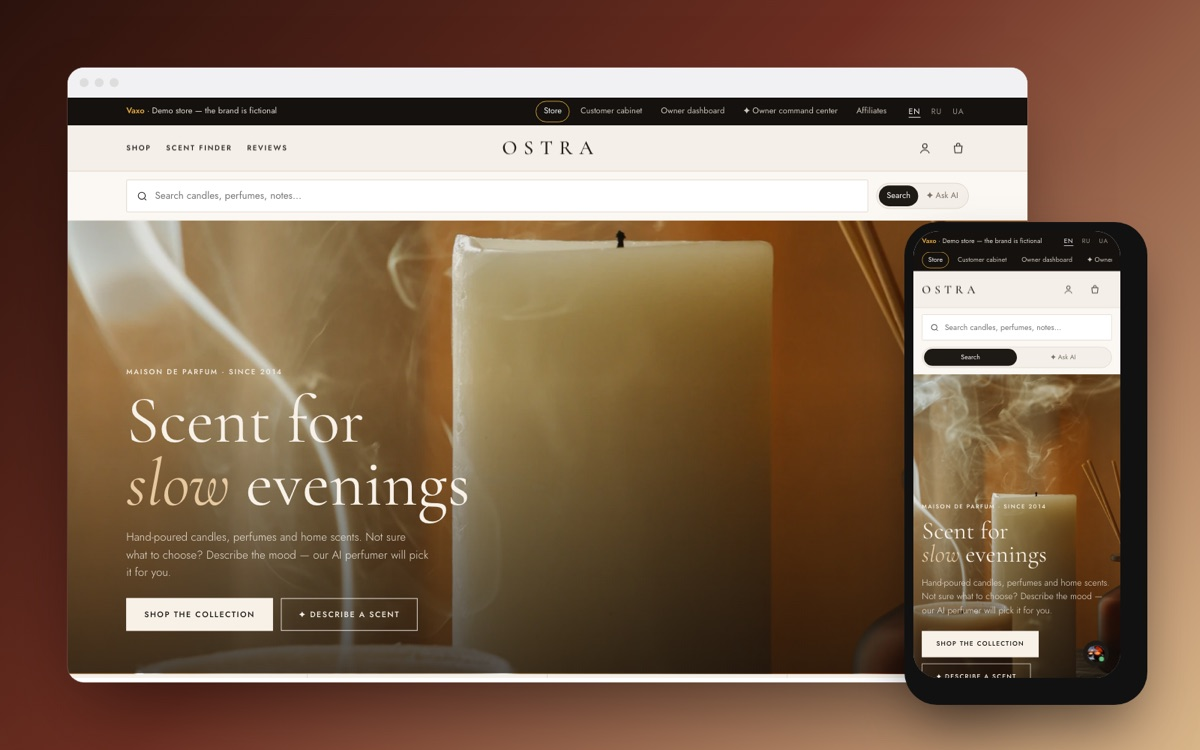
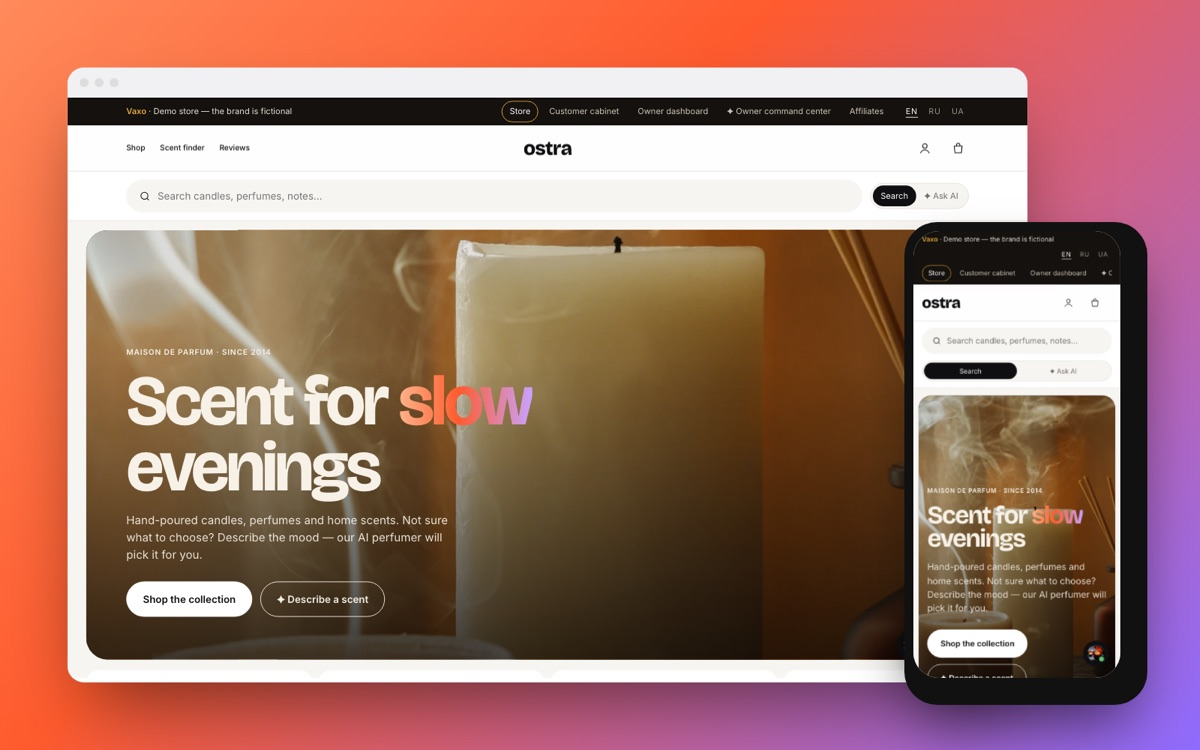
Demo CTAs open Vax chat with context; new TrichoTech/AiPro covers; modern Ostra restyle

diff --git a/public/examples/eco-shop/index.html b/public/examples/eco-shop/index.html
@@ -8,7 +8,7 @@
 <meta name="robots" content="noindex" />
 <link rel="preconnect" href="https://fonts.googleapis.com" />
 <link rel="preconnect" href="https://fonts.gstatic.com" crossorigin />
-<link href="https://fonts.googleapis.com/css2?family=Cormorant+Garamond:ital,wght@0,400;0,500;0,600;1,400&family=Jost:wght@300;400;500;600&display=swap" rel="stylesheet" />
+<link href="https://fonts.googleapis.com/css2?family=Bricolage+Grotesque:opsz,wght@12..96,500;12..96,600;12..96,700;12..96,800&family=Inter:wght@400;500;600;700&display=swap" rel="stylesheet" />
 <style>
 :root{--bg:#F4EFE8;--paper:#FBF8F3;--ink:#1D1915;--mut:#7A7067;--line:#DDD4C8;--acc:#6E2F22;--acc2:#B88A57;--ok:#4C6B4A;--serif:'Cormorant Garamond',Georgia,serif;--sans:'Jost',system-ui,sans-serif}
 *{box-sizing:border-box}html{scroll-behavior:smooth}
@@ -274,6 +274,50 @@ td{padding:10px 0;border-bottom:1px solid var(--line)}
   .edit .tx{padding:40px 16px}
 }
 @media (max-width:700px){.demo nav{flex-wrap:nowrap;overflow-x:auto;width:100%;order:3;scrollbar-width:none}.demo nav::-webkit-scrollbar{display:none}.demo nav button{white-space:nowrap}.demo .langs{margin-left:auto}.demo .wrap{gap:6px 10px;padding-top:6px;padding-bottom:6px}}
+
+/* 2026 refresh: modern niche-perfume look (Byredo / Boy Smells / Glossier mood) */
+:root{--bg:#F7F5F2;--paper:#FFFFFF;--ink:#0F0F10;--mut:#6F6B66;--line:#E7E2DB;--acc:#FF5B2E;--acc2:#8E6BFF;--ok:#1F8A5B;--serif:'Bricolage Grotesque',system-ui,sans-serif;--sans:'Inter',system-ui,sans-serif;--r:22px}
+body{font-size:15px}
+.cap{letter-spacing:.08em;font-weight:600;font-size:11.5px}
+.logo{font-family:var(--serif);font-weight:800;letter-spacing:-.03em;font-size:30px;padding-left:0;text-transform:lowercase}
+header.top{background:color-mix(in srgb,#fff 86%,transparent);border-bottom:1px solid var(--line)}
+.hnav a{font-weight:500;text-transform:none;letter-spacing:0}
+.searchbar{background:#fff}
+.sbox{border-radius:999px;padding-left:18px;background:var(--bg);border-color:transparent}
+.sbox:focus-within{background:#fff;border-color:var(--ink)}
+.sbox.ai{background:#fff}
+.sgo{border-radius:999px}
+.hero{margin:14px clamp(10px,2vw,28px) 0;border-radius:32px;min-height:min(74vh,700px);background:#1d1410}
+.hero::after{background:linear-gradient(180deg,rgba(0,0,0,0) 30%,rgba(10,6,4,.72))}
+.hero h1{font-family:var(--serif);font-weight:700;letter-spacing:-.045em;line-height:.92;font-size:clamp(48px,7.4vw,112px)}
+.hero h1 i{font-style:normal;background:linear-gradient(90deg,#FFB38A,#FF5B2E 45%,#C8A2FF);-webkit-background-clip:text;background-clip:text;color:transparent}
+.hero p{font-weight:400}
+.btn{border-radius:999px;letter-spacing:0;text-transform:none;font-size:15px;font-weight:600;padding:14px 24px}
+.btn.fill{background:var(--ink)}
+.btn.light{background:#fff;border-color:#fff}
+.strip{border:0;gap:10px;padding:16px clamp(10px,2vw,28px);grid-template-columns:repeat(4,1fr)}
+.strip div{border:0;background:#fff;border-radius:18px;padding:16px}
+.sechead h2,.edit h2,.dh h3{font-family:var(--serif);font-weight:700;letter-spacing:-.035em}
+.fgroup h4{letter-spacing:.06em;font-weight:600}
+.fgroup input[type=checkbox]{border-radius:6px}
+.toolbar select{border-radius:999px;padding:9px 14px}
+.aiband{border-radius:var(--r);background:linear-gradient(110deg,#FFF1EA,#F3EEFF)}
+.aiband p{font-family:var(--serif);font-weight:600;letter-spacing:-.02em}
+.card .ph{border-radius:var(--r);background:#EEE9E2}
+.tag{border-radius:999px;letter-spacing:.04em;font-weight:600;padding:5px 10px}
+.qa{border-radius:999px;letter-spacing:0;text-transform:none;font-size:14px;font-weight:600}
+.card h3{font-family:var(--serif);font-weight:700;letter-spacing:-.02em;font-size:20px}
+.card .price{font-weight:700}
+.stars{color:var(--acc)}
+.edit{margin:0 clamp(10px,2vw,28px);border:0;border-radius:32px;overflow:hidden;background:linear-gradient(120deg,#FFF1EA,#F1ECFF)}
+.quiz .q button{border-radius:999px}
+.quizres,.rev p{font-family:var(--serif);font-weight:600;letter-spacing:-.02em}
+.rev{background:#fff;border:0;border-radius:var(--r);padding:20px}
+.aisum{border-radius:var(--r)}
+.drawer{border-radius:24px 0 0 24px}
+footer{background:#0F0F10}
+footer h5{letter-spacing:.06em}
+@media(max-width:860px){.strip{grid-template-columns:1fr 1fr}.hero{border-radius:24px}}
 </style>
 </head>
 <body>
@@ -473,7 +517,7 @@ td{padding:10px 0;border-bottom:1px solid var(--line)}
     <form class="sub" data-sub><input type="email" required data-t-ph="email" aria-label="Email" /><button data-t="join"></button></form></div>
   <div><h5 data-t="nShop"></h5><p data-t="cCandle"></p><p data-t="cPerfume"></p><p data-t="cHome"></p></div>
   <div><h5 data-t="help"></h5><p data-t="ship"></p><p data-t="ret"></p><p data-t="nFinder"></p></div>
-  <div><h5>Vaxo</h5><p><a href="/examples/" data-t="more"></a></p><p><a href="/" data-t="build"></a></p></div>
+  <div><h5>Vaxo</h5><p><a href="/examples/" data-t="more"></a></p><p><a href="/?vax=demo-shop" data-vax="demo-shop" data-t="build"></a></p></div>
   <div class="fine" data-t="fine"></div>
 </div></footer>
 
@@ -772,6 +816,7 @@ $('[data-guide-t]').addEventListener('click',()=>$('[data-guide]').classList.tog
 if(innerWidth<1400)$('[data-guide]').classList.add('min');
 applyLang();
 document.addEventListener('click',e=>{if(e.target.closest('[data-goos]'))view('os')});
+document.addEventListener('click',e=>{const a=e.target.closest&&e.target.closest('a[data-vax]');if(a)a.href=(lang==='en'?'/':'/'+lang+'/')+'?vax='+a.dataset.vax},true);
 </script>
 </body>
 </html>

diff --git a/worker/chat.ts b/worker/chat.ts
@@ -37,6 +37,7 @@ GROWTH PATH (show it to every client — we are their point of growth, not order
 Things that used to be out of reach for small budgets (complex sites, apps, AI assistants, video production) are now possible with us — say it concretely for their case.
 EVERY WEBSITE INCLUDES BASIC SEO at no extra cost: fast mobile pages, titles and descriptions, structured data, sitemap, Google Search Console, Google Business Profile, local keywords, analytics. Advanced SEO to reach the top (content, links, monthly growth) is a monthly service.
 WOW WITHOUT EXTRA COST: offer a free express audit of their current site, socials or Google listing with 3 quick wins; ideas they can use right away; a demo of what an AI chat for their business would answer. Give real value first — but the full work, the deep strategy without a project, and repeated free work are paid.
+CAME FROM A LIVE DEMO (the visitor says they tried a demo: Vaxo OS owner command center, Aurelia clinic, Ostra store, Orbit Partners): this is a warm lead. Say in one line what that system would do for THEM, then ask ONE question at a time to scope it: their business and niche; where clients write today (Instagram, WhatsApp, site…); team size and who needs access; what hurts most now. After 2–3 answers, propose the setup (what we build first, rough price range from the catalog, timeline) and offer to send a personal demo with their brand. Never invent a price outside the catalog.
 NOT ONLY BUSINESSES: specialists, freelancers, students and anyone with a task (a presentation, a text, a design, code, a data table, a bot) — help like a top professional, micro-tasks from $30.
 MARKETING SKILL: speak about the client's result (more bookings, more orders, time saved), use their own words, one clear next step, short messages. No pressure, no fake urgency, no invented numbers.
 ACCESS (safety first): never ask for passwords, codes or card data. Access is given by invitation, and you guide the client step by step — short, one step at a time, offer to check via a screenshot (📎):

diff --git a/public/examples/eco-partners/index.html b/public/examples/eco-partners/index.html
@@ -59,7 +59,7 @@ tr.me td{background:rgba(124,92,255,.14)}
 <div class="vx"><div class="w"><span class="logo">Orbit<i>.</i>Partners</span>
 <div class="tabs"><button class="on" data-v="home" data-t="tHome"></button><button data-v="calc" data-t="tCalc"></button><button data-v="board" data-t="tBoard"></button><button data-v="pay" data-t="tPay"></button><button data-v="owner" data-t="tOwner"></button></div>
 <div class="langs"><button data-l="en">EN</button><button data-l="ru">RU</button><button data-l="ua">UA</button></div>
-<a class="get" href="/#chat" data-t="get"></a></div></div>
+<a class="get" href="/?vax=demo-partners" data-vax="demo-partners" data-t="get"></a></div></div>
 <div class="demo" data-t="demo"></div>
 
 <div class="w">
@@ -194,4 +194,5 @@ $("c1").oninput=calc;$("c2").oninput=calc;
 $("postf").onsubmit=async e=>{e.preventDefault();const q=$("postq").value.trim()||t('postPh');const o=$("posto");o.textContent='…';
  try{const r=await fetch('/api/demo/ai',{method:'POST',headers:{'Content-Type':'application/json'},body:JSON.stringify({lang,brand:'Orbit Partners',mode:'chat',role:'an AI coach for affiliate partners of Orbit (a business software). Write ONE ready, honest, personal social post the partner can publish with their link: a hook, 2-3 short lines about the benefit, a soft call to action, no fake numbers or promises of income. Put the post in "text", ids empty',items:[{id:'orbit',t:'Orbit — simple software that helps small businesses get more clients'}],q:'Where and for whom: '+q})});const j=await r.json();o.textContent=j.ok?j.text:t('busy')}catch{o.textContent=t('busy')}};
 applyLang();
+document.addEventListener('click',e=>{const a=e.target.closest&&e.target.closest('a[data-vax]');if(a)a.href=(lang==='en'?'/':'/'+lang+'/')+'?vax='+a.dataset.vax},true);
 </script></body></html>

diff --git a/public/examples/eco-crm/index.html b/public/examples/eco-crm/index.html
@@ -30,12 +30,12 @@ button{font:inherit;cursor:pointer}
 <div class="w">
   <div class="bar"><b>va<i>x</i>o</b><span class="tag" data-t="tag"></span>
     <div class="langs"><button data-l="en">EN</button><button data-l="ru">RU</button><button data-l="ua">UA</button></div>
-    <a class="get" href="/#chat" data-t="get"></a></div>
+    <a class="get" href="/?vax=demo-os" data-vax="demo-os" data-t="get"></a></div>
   <div class="hero"><div><h1 data-th="h1"></h1><p data-t="p"></p></div>
     <div class="pts"><span data-t="p1"></span><span data-t="p2"></span><span data-t="p3"></span><span data-t="p4"></span></div></div>
   <div class="niche"><small data-t="try"></small><button data-n="clinic" data-t="nc"></button><button data-n="shop" data-t="ns"></button><button data-n="biz" data-t="nb"></button></div>
   <div id="os"></div>
-  <p class="foot"><span data-t="foot"></span> <a href="/#chat" data-t="get"></a></p>
+  <p class="foot"><span data-t="foot"></span> <a href="/?vax=demo-os" data-vax="demo-os" data-t="get"></a></p>
 </div>
 <script src="/examples/_os/os.js"></script>
 <script>
@@ -52,5 +52,6 @@ $$('[data-l]').forEach(b=>b.onclick=()=>{lang=b.dataset.l;try{localStorage.setIt
 $$('[data-n]').forEach(b=>b.onclick=()=>{niche=b.dataset.n;apply();VaxoOS.niche(niche,...AC[niche])});
 apply();VaxoOS.mount(document.getElementById('os'),{lang,niche,accent:AC[niche][0],accent2:AC[niche][1]});
 const h=location.hash.slice(1);if(h)VaxoOS.go(h);
+document.addEventListener('click',e=>{const a=e.target.closest&&e.target.closest('a[data-vax]');if(a)a.href=(lang==='en'?'/':'/'+lang+'/')+'?vax='+a.dataset.vax},true);
 </script>
 </body></html>

diff --git a/public/examples/eco-clinic/index.html b/public/examples/eco-clinic/index.html
@@ -404,7 +404,7 @@ svg.chart{width:100%;height:170px}
 <footer><div class="wrap">
   <div><div class="logo" style="color:#fff"><i></i>Aurelia</div><p data-t="fAddr"></p></div>
   <div><h5 data-t="hours"></h5><p data-t="hrs1"></p><p data-t="hrs2"></p></div>
-  <div><h5>Vaxo</h5><p><a href="/examples/" data-t="more"></a></p><p><a href="/" data-t="build"></a></p></div>
+  <div><h5>Vaxo</h5><p><a href="/examples/" data-t="more"></a></p><p><a href="/?vax=demo-clinic" data-vax="demo-clinic" data-t="build"></a></p></div>
   <div class="fine" data-t="fine"></div>
 </div></footer>
 
@@ -642,6 +642,7 @@ $('[data-guide-t]').addEventListener('click',()=>$('[data-guide]').classList.tog
 if(innerWidth<1400)$('[data-guide]').classList.add('min');
 applyLang();
 document.addEventListener('click',e=>{if(e.target.closest('[data-goos]'))view('os')});
+document.addEventListener('click',e=>{const a=e.target.closest&&e.target.closest('a[data-vax]');if(a)a.href=(lang==='en'?'/':'/'+lang+'/')+'?vax='+a.dataset.vax},true);
 </script>
 </body>
 </html>
